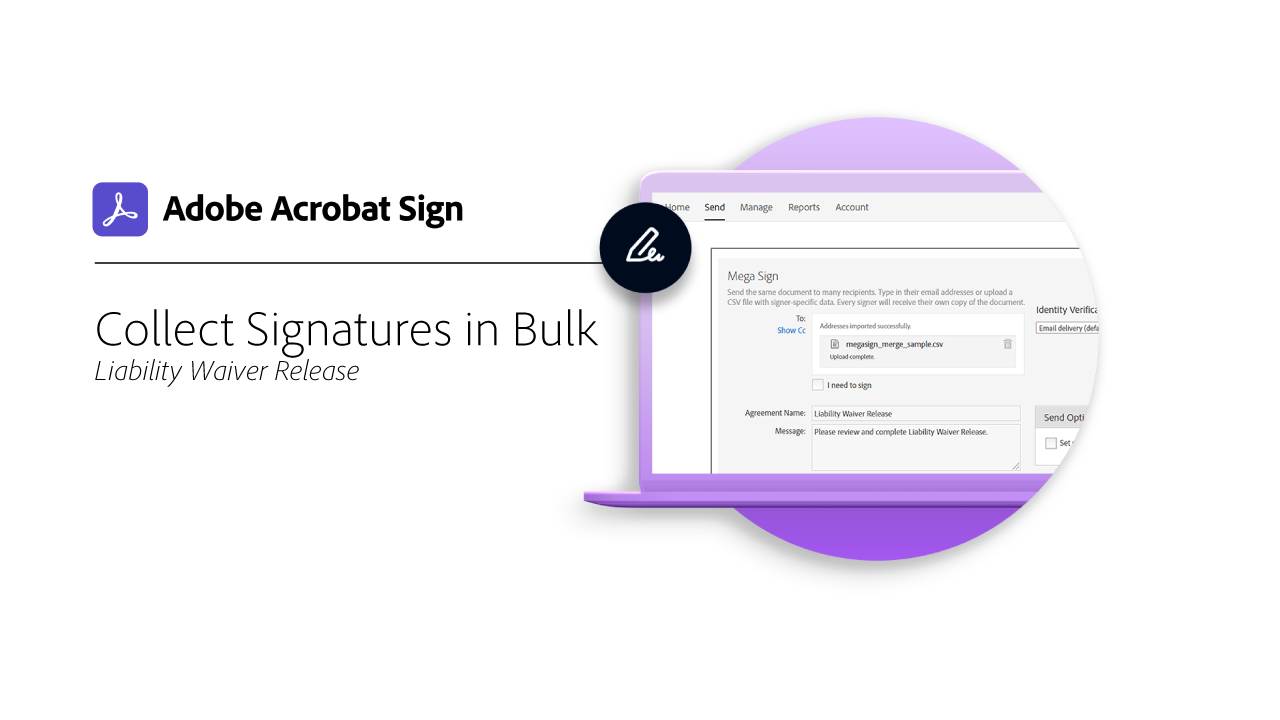
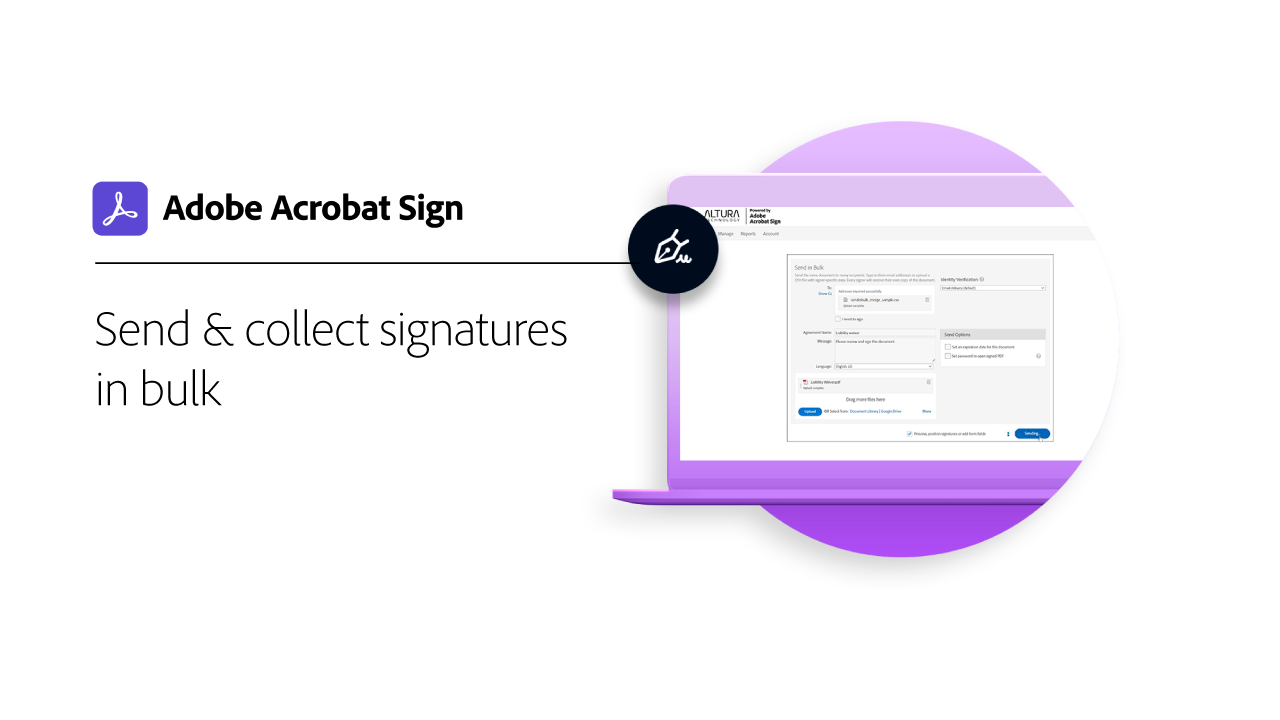
Send in bulk tutorial update

Changed region(s): [[0.0625, 0.1528, 0.875, 0.7944], [0.0938, 0.275, 0.3438, 0.3056], [0.0625, 0.3056, 0.0938, 0.3361]]

diff --git a/help/sign/sign-advanced-users/megasign.md b/help/sign/sign-advanced-users/megasign.md
@@ -1,5 +1,5 @@
 ---
-title: Collect Signatures in Bulk
+title: Send & Collect Signatures in Bulk
 description: Learn how to collect hundreds of signatures at once for any document in just a few short steps
 role: User, Admin
 product: adobe sign
@@ -8,13 +8,17 @@ level: Intermediate
 thumbnail: 37839.jpg
 exl-id: f81f5ce8-26ad-4c73-934c-da580782bf84,71a748b0-48c9-4a1e-befe-d5f311d6c05e
 ---
-# Collect signatures in bulk
+# Send & collect signatures in bulk
 
 Learn how to collect hundreds of signatures in just a few short steps. In this use case, everyone gets their own liability waiver to sign, and you can track the progress of each individual waiver--so you know exactly who or who hasn’t signed. Each online signature you capture is safe, secure, and legally valid. 
 
-Check out this additional real-world [Telework agreement](https://experienceleague.adobe.com/docs/document-cloud-learn/sign-learning-hub/expand/recipes/gov/usecasegovtelework.html?lang=en) use case. 
+Check out this additional real-world [Telework agreement](https://experienceleague.adobe.com/docs/document-cloud-learn/sign-learning-hub/expand/recipes/gov/usecasegovtelework.html?lang=en) use case.
 
->[!VIDEO](https://video.tv.adobe.com/v/37839?hidetitle=true)
+>[!NOTE]
+>
+>Enterprise and business plans can send up to 300 emails in one transaction using the Send in bulk tool. Be sure to check out [GigaSign](https://experienceleague.adobe.com/docs/document-cloud-learn/sign-learning-hub/develop/custom/gigasign.html?lang=en) if you need to collect more than 300 signatures at once.
+
+>[!VIDEO](https://video.tv.adobe.com/v/33655?hidetitle=true)
 
 [Download sample CSV file in ZIP format](../assets/megasign_merge_sample.zip)
 

diff --git a/help/sign/TOC.md b/help/sign/TOC.md
@@ -37,7 +37,7 @@ breadcrumb-title: Acrobat Sign Tutorials
     + [Setting up signing order](sign-advanced-users/setting-up-routing.md)
     + [Using the delegator role](sign-advanced-users/delegate-signature.md)
     + [Adding an Approver](sign-advanced-users/add-an-approver.md)
-    + [Collecting signatures in bulk](https://experienceleague.adobe.com/docs/document-cloud-learn/sign-learning-hub/admin-set-up/getting-started-admin/megasign.html)      
+    + [Send & collect signatures in bulk](https://experienceleague.adobe.com/docs/document-cloud-learn/sign-learning-hub/admin-set-up/getting-started-admin/megasign.html)      
     + [Setting up a Web Form](https://experienceleague.adobe.com/docs/document-cloud-learn/sign-learning-hub/admin-set-up/getting-started-admin/webform.html)
     + [Acrobat Sign Text Tagging](https://experienceleague.adobe.com/docs/document-cloud-learn/sign-learning-hub/admin-set-up/advanced-tasks-admins/adobe-sign-text-tagging.html)
   + Managing {#advanced-tasks-managing}
@@ -53,7 +53,7 @@ breadcrumb-title: Acrobat Sign Tutorials
     + [Creating a template](sign-advanced-users/create-a-template.md)
     + [Creating a report](admin/create-a-report.md)
     + [Setting up a Web Form](sign-advanced-users/webform.md)
-    + [Collecting signatures in bulk](sign-advanced-users/megasign.md)
+    + [Send & collect signatures in bulk](sign-advanced-users/megasign.md)
     + [Building a custom workflow](admin/building-a-custom-workflow.md)
   + Advanced tasks {#advanced-tasks-admins}
     + [Global settings](admin/learn-about-global-settings.md)

diff --git a/help/sign/admin/intro-admin-overview.md b/help/sign/admin/intro-admin-overview.md
@@ -104,10 +104,10 @@ Learn about adding users to your account, setting up groups, sharing access, and
   </td>
   <td>
     <a href="../sign-advanced-users/megasign.md">
-      <img alt="Collect Signatures in Bulk" src="../assets/Megasign.png" />
+      <img alt="Send & collect signatures in bulk" src="../assets/Megasign.png" />
     </a>
     <div>
-    <a href="../sign-advanced-users/megasign.md"><strong>Collect signatures in bulk</strong></a>
+    <a href="../sign-advanced-users/megasign.md"><strong>Send & collect signatures in bulk</strong></a>
     </div>
     <em>Collect hundreds of signatures at once for any document</em>
     <br>

diff --git a/help/sign/sign-advanced-users/advanced-users-overview.md b/help/sign/sign-advanced-users/advanced-users-overview.md
@@ -52,10 +52,10 @@ Learn how to send a document out for signature to 100s of recipients at once, se
 <tr>
   <td>
     <a href="megasign.md">
-      <img alt="Collecting signatures in bulk" src="../assets/Megasign.png" />
+      <img alt="Send & collect signatures in bulk" src="../assets/Megasign.png" />
     </a>
     <div>
-    <a href="megasign.md"><strong>Collecting signatures in bulk</strong></a>
+    <a href="megasign.md"><strong>Send & collect signatures in bulk</strong></a>
     </div>
     <em>Collect hundreds of signatures at once for any document in just a few short steps</em>
     <br>
